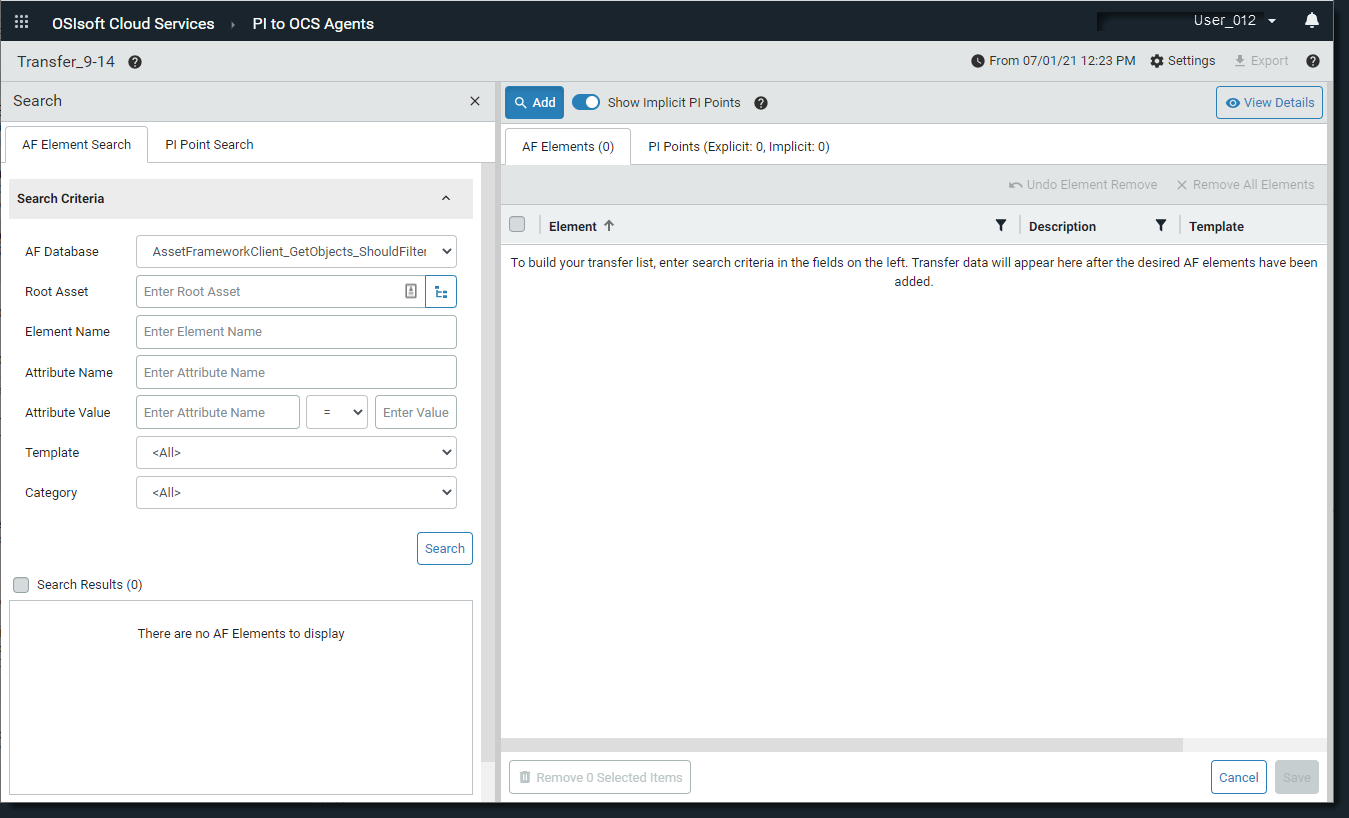
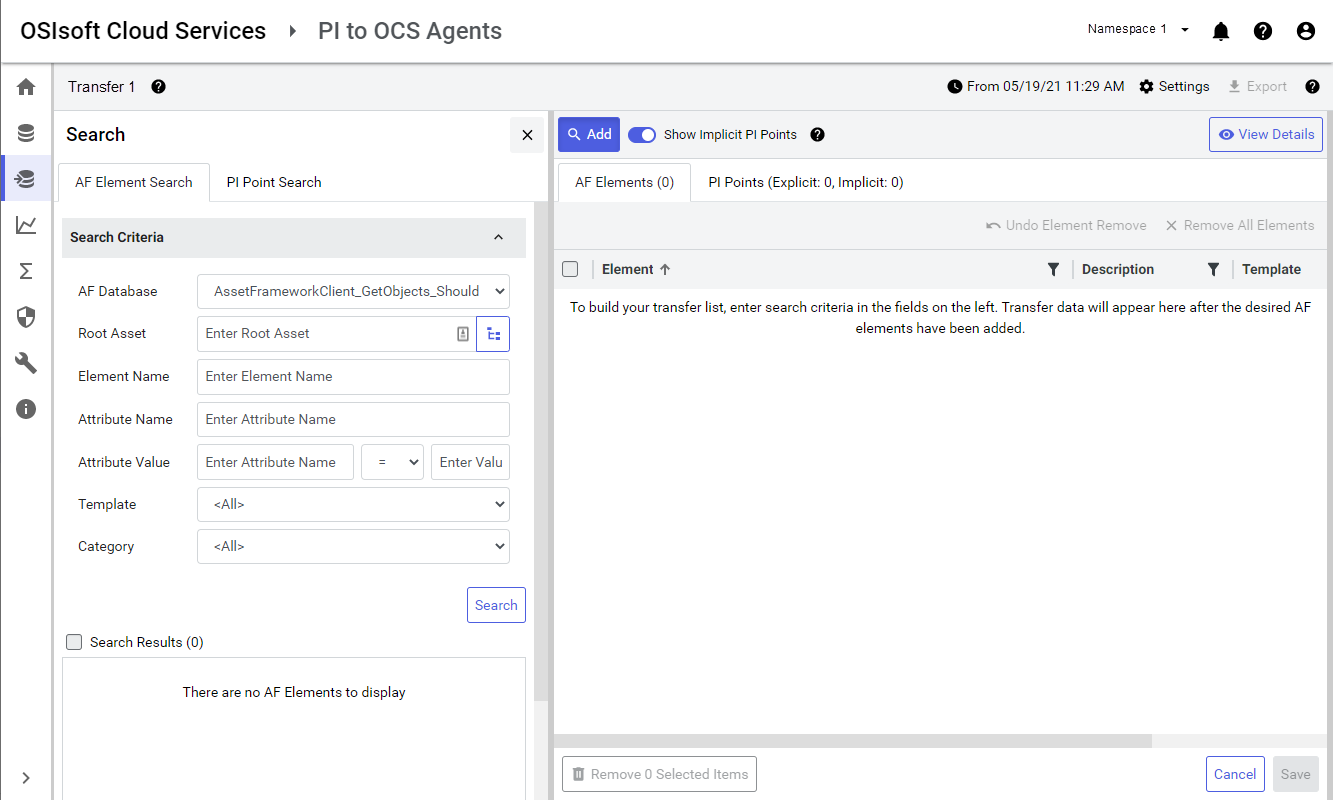
Updates to transfer data section
Update screenshots & procedures to reflect changes due to styling/rebranding and new zLH agent (1.7).

diff --git a/content/add-organize-data/collect-data/connectors/pi-to-ocs/pi-to-ocs-data-transfers/transfer-data-to-ocs.md b/content/add-organize-data/collect-data/connectors/pi-to-ocs/pi-to-ocs-data-transfers/transfer-data-to-ocs.md
@@ -72,23 +72,23 @@ During transfer creation, you will need to perform the following tasks:
 
 ## Build an AF elements transfer list
 
-You build an AF elements transfer by setting query criteria and then selecting AF elements.  You can narrow your search by filtering by element name, asset group, attribute name/value, template, and category. 
+You build an AF elements transfer by setting query criteria and then selecting AF elements after naming the transfer.  You can narrow your search by filtering by element name, asset group, attribute name/value, template, and category. 
 
-1. Select your agent in the **PI to OCS Agents** list, then click the **Add** button.
+1. Click the **AF Database** down arrow, then select the source AF database you want to search.
 
-   **Result:** The `AF Element Search` pane opens.
+1. Optional: Click the **Root Asset** button.
+   
+   **Result:** The `Select Root Element` dialog box opens.
 
-   ![](../../images/af-element-search-tab.png)
-
-1. Click the **AF Database** down arrow, then select a source AF database.
-
-1. Optional: Click the **Root Asset** button, then select a root asset to narrow your search by specific asset group.
+1. Optional: In the `Select Root Element` dialog box, click the plus buttons to drill down to the desired root asset in the AF database hierarchy, select a root asset, then click **Select**. 
 
 1. Optional: In the **Element Name** text box, enter search criteria to filter by part or all of an AF element name.
 
+   **Note:** If you don't enter filter criteria, the search defaults to "*" or all.  
+
 1. Optional: In the **Attribute Name** text box, enter the attribute name.
 
-1. Optional: In the **Attribute Value** fields, filter by attribute value by specifying the following information:
+1. Optional: In the **Attribute Value** fields, filter attribute values by specifying the following information:
 
       * In the first text box, enter an attribute name.
       * Click the operator down arrow, then select an operator (=, <>, <, >, =<, =>, In).
@@ -96,15 +96,15 @@ You build an AF elements transfer by setting query criteria and then selecting A
 
    **Note:** Custom unit of measurements (UOMs) are not supported in OCS. During the transfer of AF element data, AF elements with custom UOMs will not have their corresponding asset’s UOM property set.
 
-1. Optional: Click the **Template** down arrow to narrow your search by template name.
+1. Optional: Click the **Template** down arrow, then select a template to narrow your search by template name.
 
-1. Optional: Click the **Category** down arrow to narrow the search by a specific category.
+1. Optional: Click the **Category** down arrow, then select a category to narrow the search by a specific AF category.
 
 1. Click **Search** to execute the query and retrieve matching results.
 
    **Result:** Query results are displayed in the **Search Results** list.
 
-1. Scroll through the query results and click on each AF elements you want added to the transfer.
+1. Scroll through the query results and click each AF element you want added to the transfer.
 
    **Result:** A checkmark appears next to each selected AF element.
 
@@ -112,10 +112,12 @@ You build an AF elements transfer by setting query criteria and then selecting A
 
 1. To advance through multiple-paged query results, click the back and forward arrows OR enter a page number in the **Page** text box.
 
-1. Repeat step 10 until you have finished selecting elements.
+1. Repeat step 11 until you have finished selecting elements.
 
 1. When you are done selecting elements, click **Add AF Elements To Transfer**.
-    **Result:**  The elements are added to the transfer in the `AF Elements` tab.
+    **Result:**  The elements are added to the transfer and listed on the `AF Elements` tab.
+
+1. Repeat steps 1-13 to query other AF databases and add additional elements. 
 
 1. Click **Save** to add the selected AF elements to the transfer.
 
@@ -126,13 +128,11 @@ You build an AF elements transfer by setting query criteria and then selecting A
 You can view details about an individual AF element such as related attributes and its source path in AF. To gain deeper insights about where an asset is located and to help search for AF elements. you can view where AF elements reside in the AF element hierarchy by viewing details about the element template, and additional places 
 where an element is referenced. AF element templates are propagated to OCS as asset types.
 
-1. In the `Transfer` pane, click the **AF Elements** tab.
-
-1. Select an AF element in the transfer list.
+1. Select an AF element on the **AF Elements** tab.
 
 1. Click the **View Details** button.
 
-   **Result:** The **AF Element Information** pane opens and displays details about AF element attributes (name, value, and data reference source path). 
+   **Result:** The `AF Element Information` pane opens and displays details about AF element attributes (name, value, and data reference source path). 
    
 1. Click the **Reference AF Elements** tab.
 
@@ -142,7 +142,7 @@ where an element is referenced. AF element templates are propagated to OCS 
 
 1. Repeat step 3-5 as needed.
 
-1. Click the **View Details** button or **x** to close the **AF Element Information** pane.
+1. Click the **View Details** button to close the `AF Element Information` pane.
 
 ## Build a PI points transfer list
 
@@ -201,7 +201,7 @@ Implicit PI points are PI points referenced by AF elements in a transfer. You ca
 
    **Note:** Implicit PI points are referenced by AF element attributes and retrieved from an AF server. Hiding implicit PI points does not remove them from a transfer.  
 
-2. **Optional:** Click the **Show Implicit PI Points** toggle button again to reveal hidden implicit PI points.
+1. Optional: Click the **Show Implicit PI Points** toggle button again to reveal hidden implicit PI points.
 
 ## View PI point details
 
@@ -237,6 +237,7 @@ Before you can transfer data to OCS, you must save the transfer to retain your P
 
 The `Details` pane provides information about the agent associated with the transfer, the transfer progress, the data sources, and details about the PI points and AF elements transferred.  As shown in the screen capture below, the sections in the `Details` pane can be expanded and collapsed using the chevron arrows ( ![](../../images/chevrons.png) ):  
 
+![](../../images/details-pane1.png)
 ![](../../images/details-pane2.png) 
 
 | Numbered section | Description                                                  |
@@ -260,20 +261,22 @@ Data is ready for transfer to OCS after the desired PI points and/or AF elements
 
 ### Start the data transfer
 
-1. In the `PI to OCS Agents` window, select the PI to OCS Agent that contains the data you want to transfer. 
+1.  Optional: In the `PI to OCS Agents` window, select the PI to OCS Agent associated with the data transfer. 
 
 1. Optional: In the `Details` pane, click the `Transfer Overview` down area to expand this section.
 
    **Result:** The `Transfer Overview` section expands.
 
-2. Click the **Start Transfer** button, then click **Start**.
+1. Click the **Start Transfer** button, then click **Start**.
 
-   **Result:** The transfer process begins and information about the transfer is updated in the `Details` pane.
+   **Result:** The transfer of data begins and the transfer status is reflected in the `Transfer Overview` section.
 
-3. In the `Details` pane, expand the `Data Source` section to view the status of a transfer as data is sent to OCS.
+1. In the `Details` pane, expand the `Data Source` section to view the status of a transfer as data is sent to OCS.
 
-   **Note:** The rate at which data is transferred varies and depends on the density of data in the source PI Data Archive and/or AF server. See [Data transfer statuses](xref:data-transfer-statuses) for a list of transfer statuses and descriptions. To find out more information about an asset error or agent status, click the **Logs** button above the agent list. 
-   
-4. Optional: To stop a transfer, click **Stop Transfer**, then click **Stop**.
+   **Note:** The rate at which data is transferred varies and depends on the density of data in the source PI Data Archive and/or AF server. See [Data transfer statuses](xref:data-transfer-statuses) for a list of transfer statuses and descriptions. To find out more information about an asset error or agent status, click the **Logs** button above the list of agents to access more information. Possible statuses that appear in the **Current Activity** field may indicate an issue include Uncategorized Error, PI Point Type Change Detected, and No Valid PI Points In Transfer.   
 
-5. Optional: To remove a transfer, click **Remove Transfer**, then click **Remove**.
+1. Optional: If the fields in the `Details` pane indicate there are issues with the transfer or agent, click the **Logs** button to open the Logs window to view more information about the transfer.
+    
+1. Optional: To stop a transfer, click **Stop Transfer**, then click **Stop**.
+
+1. Optional: To remove a transfer, click **Remove Transfer**, then click **Remove**.
